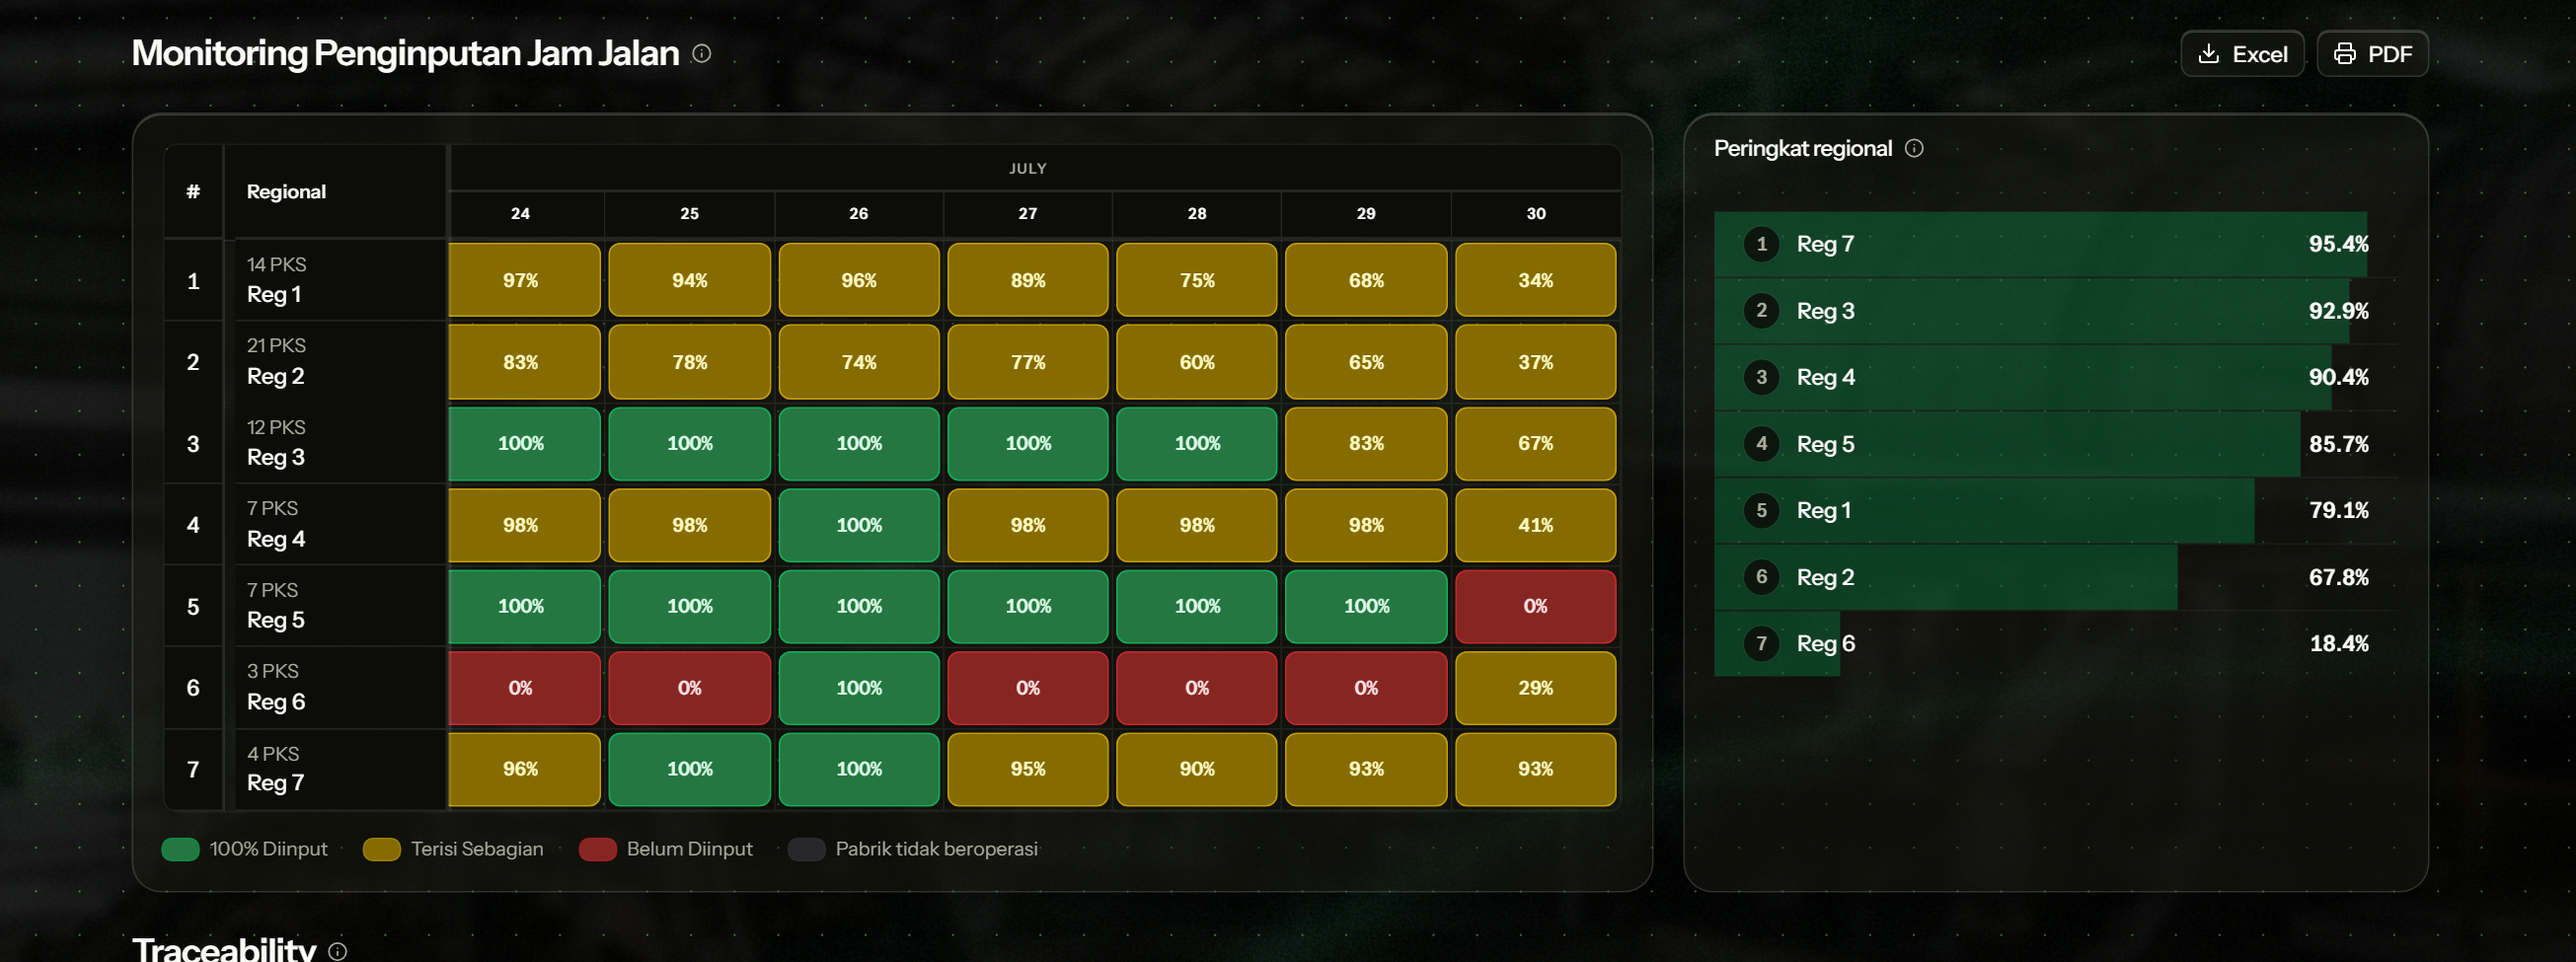
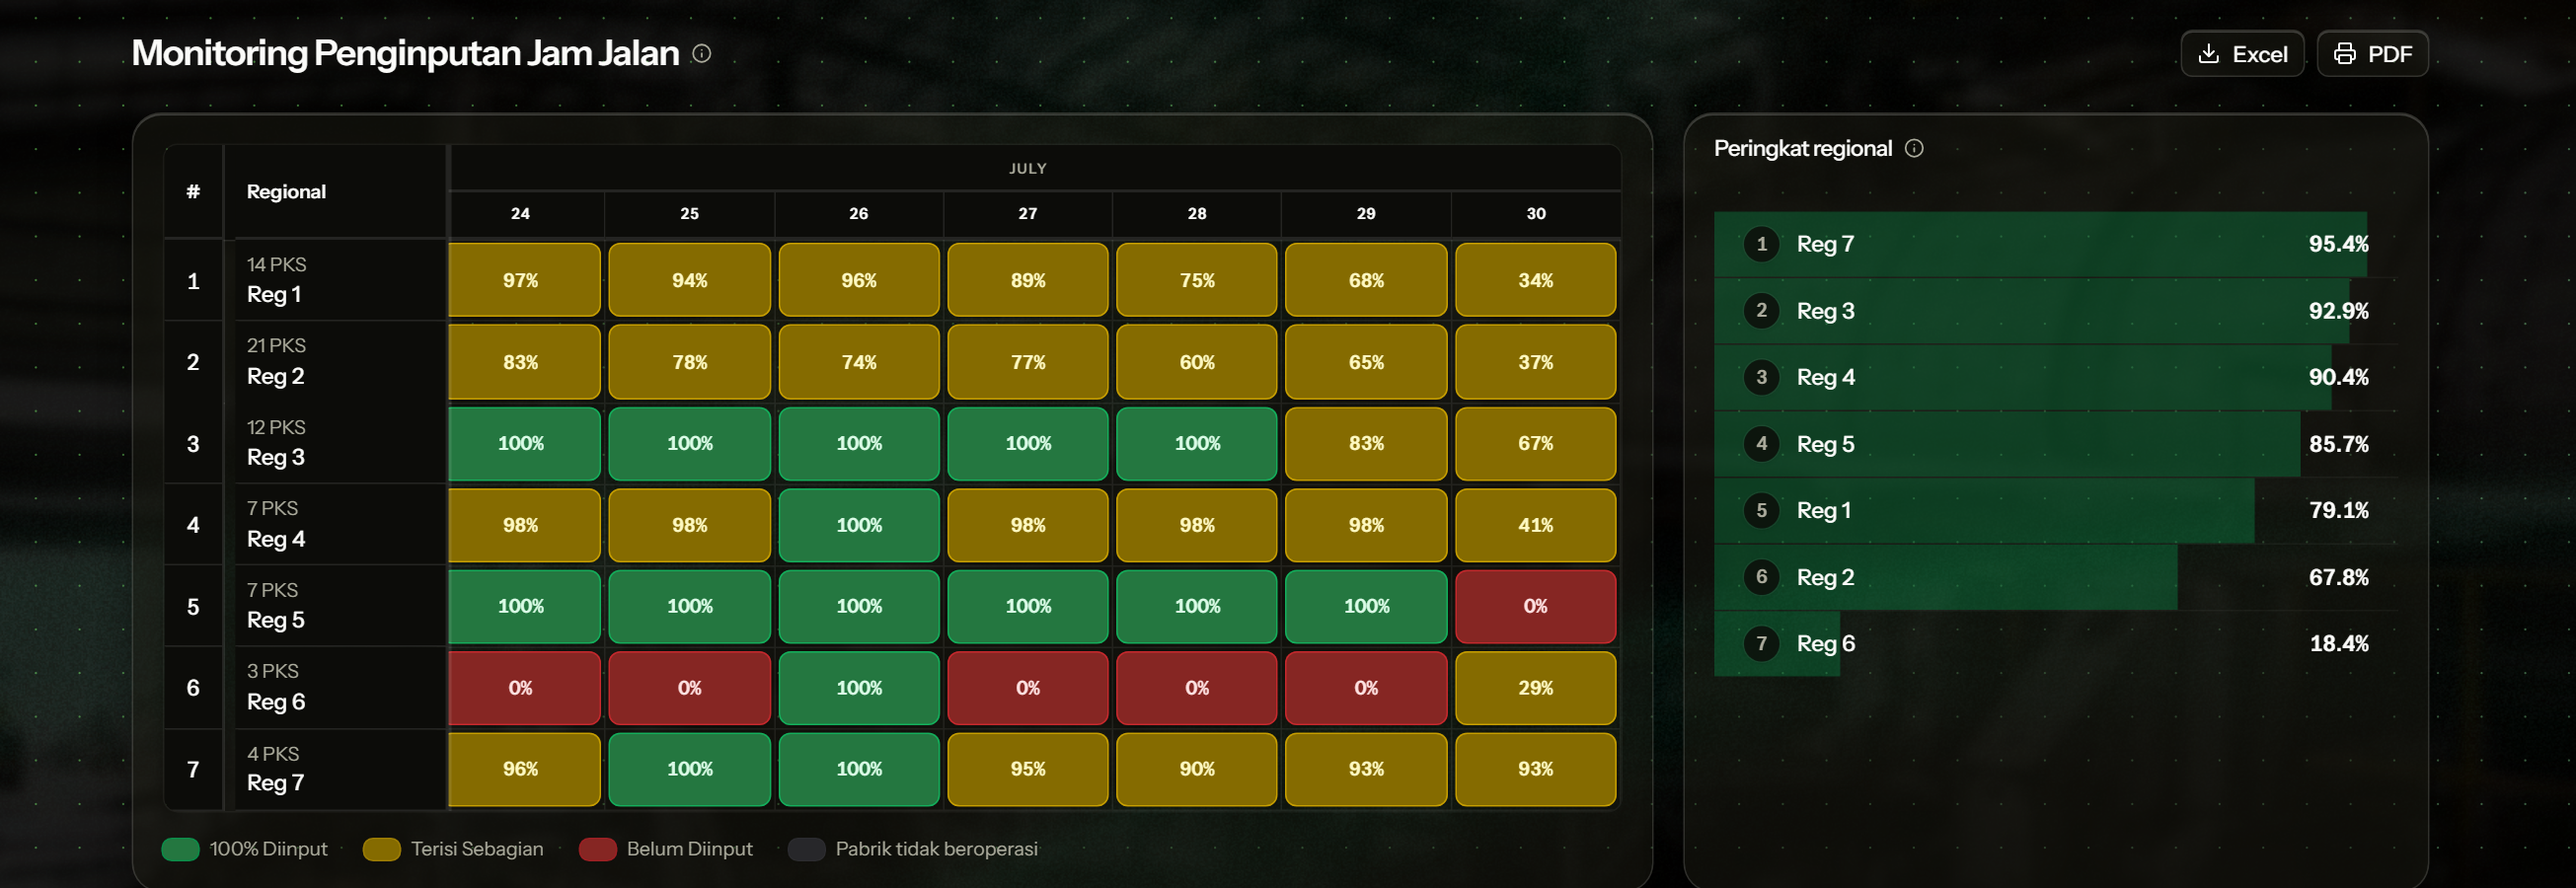
fix: fine-tune crop height to exactly 600 logical px to omit Traceability header

Changed region(s): [[0.031, 0.1867, 0.931, 1.0], [0.0621, 0.0311, 0.9621, 0.1867], [0.9, 0.7156, 0.931, 0.7467]]

diff --git a/MP/MP/sap-input-app/scripts/run_wa_report.js b/MP/MP/sap-input-app/scripts/run_wa_report.js
@@ -187,7 +187,8 @@ async function captureScreenshotWithRetries() {
       const cropTop = Math.floor(100 * scale);
       const cropLeft = Math.floor(90 * scale);
       const cropWidth = Math.floor(1740 * scale);
-      const cropHeight = Math.floor(650 * scale);
+      // Mengurangi cropHeight agar "Traceability" tidak terpotret
+      const cropHeight = Math.floor(600 * scale);
       
       let pngBuffer;
       const sharp = (await import('sharp')).default;
